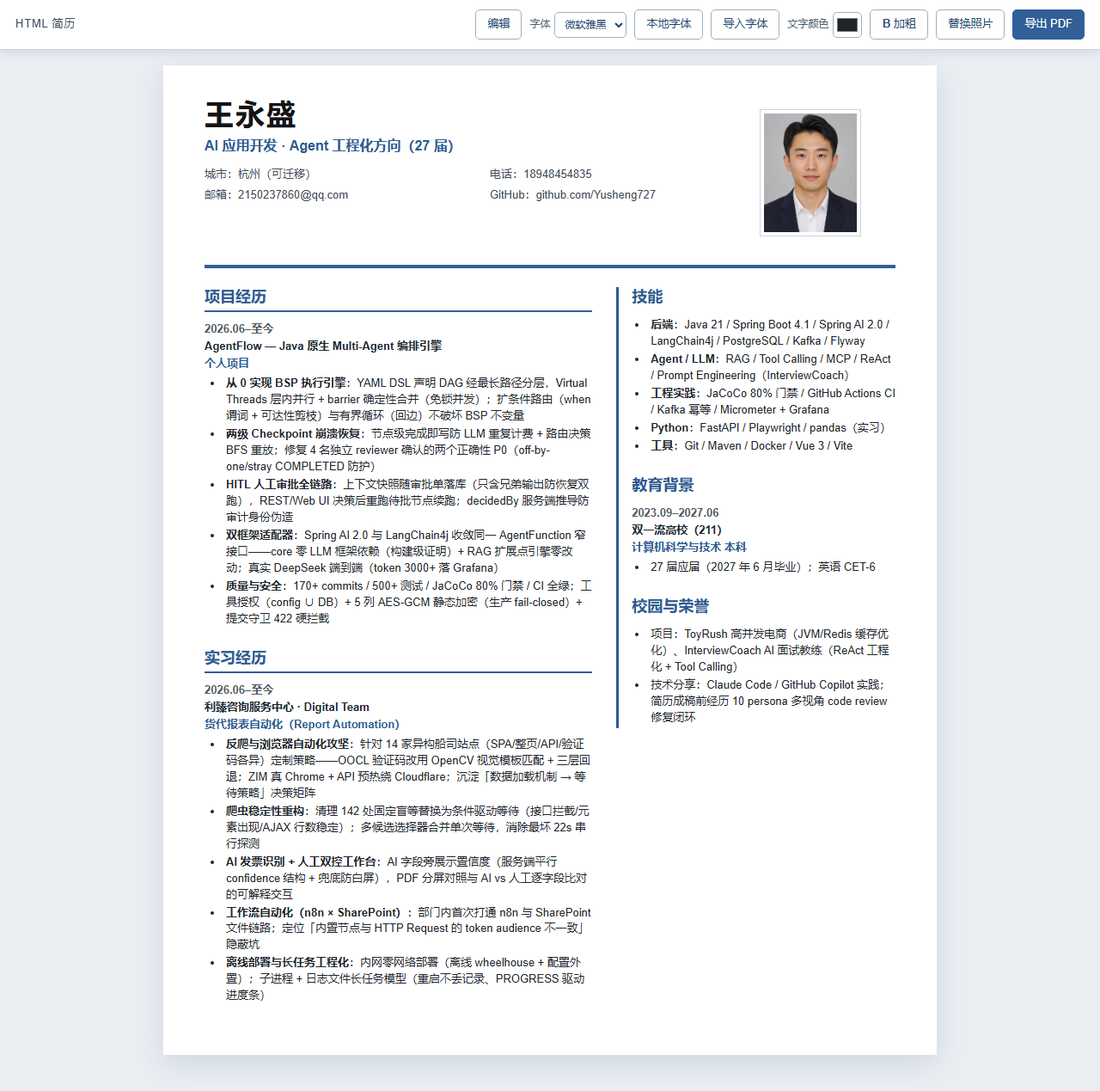
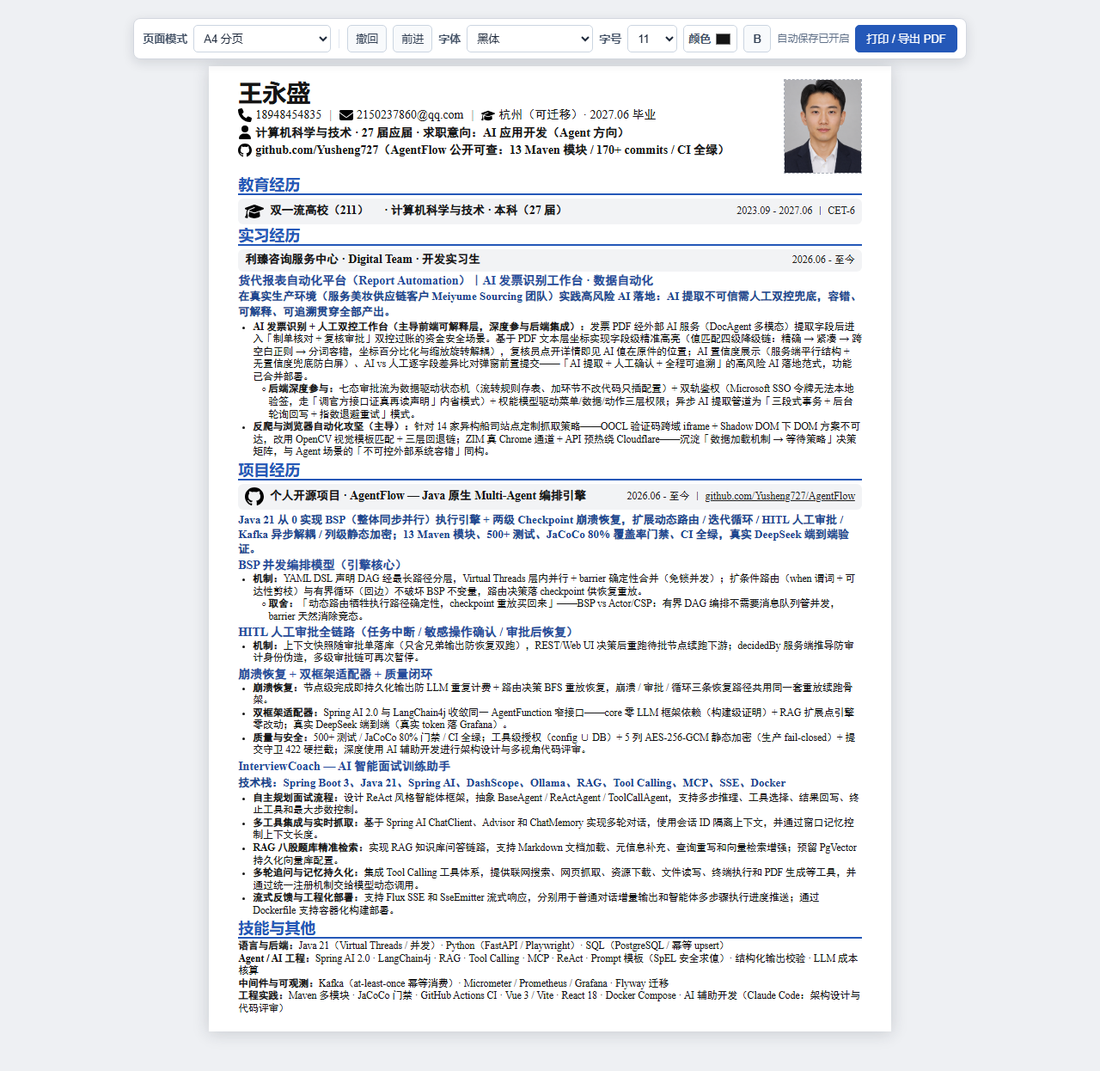
docs:两版简历规范到一页之内

Changed region(s): [[0.0938, 0.0, 1.0, 0.9759], [0.0312, 0.0, 0.0625, 0.0305]]

diff --git a/docs/resumes/B-backend.html b/docs/resumes/B-backend.html
@@ -9,7 +9,7 @@
     :root { --blue: #2458b8; --text: #151515; --muted: #596273; --band: #f2f3f5; }
     * { box-sizing: border-box; }
     html, body { margin: 0; padding: 0; background: #fff; }
-    body { color: var(--text); font-family: "Times New Roman", "SimHei", "黑体", "Microsoft YaHei", sans-serif; font-size: 10.5pt; line-height: 1.34; }
+    body { color: var(--text); font-family: "Times New Roman", "SimHei", "黑体", "Microsoft YaHei", sans-serif; font-size: 8.8pt; line-height: 1.24; }
     .toolbar { position: sticky; z-index: 10; top: 6px; display: flex; align-items: center; gap: 7px; width: max-content; max-width: calc(100vw - 32px); margin: 6px auto 8px; padding: 7px 10px; border: 1px solid #d3d7df; border-radius: 8px; background: #fff; box-shadow: 0 4px 14px rgba(15, 23, 42, .12); color: #334155; font: 13px/1 Arial, "Microsoft YaHei", sans-serif; }
     .toolbar label, .toolbar-title { color: #475569; font-weight: 700; white-space: nowrap; }
     .toolbar button, .toolbar select { height: 32px; border-radius: 5px; font: inherit; transition: border-color .15s ease, box-shadow .15s ease, background .15s ease, transform .15s ease; }
@@ -28,7 +28,7 @@
     .color-control input { width: 21px; height: 21px; padding: 0; border: 0; background: transparent; cursor: pointer; }
     @media screen and (max-width: 980px) { .toolbar { top: 6px; max-width: calc(100vw - 20px); flex-wrap: wrap; justify-content: center; } }
     @media print { .toolbar { display: none; } }
-    .sheet { width: 210mm; min-height: 0; padding: 7mm 10mm 8mm; border-top: 0; margin: 0 auto; }
+    .sheet { width: 210mm; min-height: 0; padding: 4mm 9mm 5mm; border-top: 0; margin: 0 auto; }
     .page-break { break-before: auto; }
     body[data-page-mode="continuous"] { width: 100%; }
     body[data-page-mode="continuous"] .sheet { width: 210mm; }
@@ -45,9 +45,9 @@
       body[data-page-mode="continuous"] .sheet { min-height: 0; margin: 0; box-shadow: none; }
     }
     [contenteditable="true"]:focus { outline: 2px solid #b7caf3; outline-offset: 2px; }
-    h1 { margin: 0 0 3px; font-family: "Microsoft YaHei", "Arial", sans-serif; font-size: 24pt; line-height: 1.08; font-weight: 700; }
-    .header-grid { display: grid; grid-template-columns: minmax(0, 1fr) 28mm; gap: 8mm; align-items: start; }
-    .profile-photo-slot { position: relative; width: 28mm; height: 36mm; display: flex; align-items: center; justify-content: center; overflow: hidden; border: 1px dashed #a8adb7; background: #fafafa; color: #8b919c; font: 9pt/1.2 Arial, sans-serif; text-align: center; cursor: pointer; }
+    h1 { margin: 0 0 2px; font-family: "Microsoft YaHei", "Arial", sans-serif; font-size: 21pt; line-height: 1.08; font-weight: 700; }
+    .header-grid { display: grid; grid-template-columns: minmax(0, 1fr) 24mm; gap: 6mm; align-items: start; }
+    .profile-photo-slot { position: relative; width: 24mm; height: 29mm; display: flex; align-items: center; justify-content: center; overflow: hidden; border: 1px dashed #a8adb7; background: #fafafa; color: #8b919c; font: 9pt/1.2 Arial, sans-serif; text-align: center; cursor: pointer; }
     .profile-photo-slot:hover, .profile-photo-slot:focus-visible { border-color: #2458b8; outline: none; }
     .profile-photo-slot::after { content: "点击上传"; position: absolute; inset: auto 0 0; padding: 4px 2px; background: rgba(36, 88, 184, .88); color: #fff; font: 8pt/1.2 Arial, "Microsoft YaHei", sans-serif; opacity: 0; transition: opacity .15s ease; }
     .profile-photo-slot:hover::after, .profile-photo-slot:focus-visible::after { opacity: 1; }
@@ -55,26 +55,26 @@
     .photo-placeholder { pointer-events: none; }
     .photo-input { display: none; }
     .profile-photo-slot img { display: block; width: 100%; height: 100%; object-fit: cover; }
-    .meta-row { display: flex; align-items: center; gap: 4px; margin: 2px 0; font-size: 11.5pt; line-height: 1.42; white-space: nowrap; }
+    .meta-row { display: flex; align-items: center; gap: 4px; margin: 1px 0; font-size: 10.5pt; line-height: 1.38; white-space: nowrap; }
     .meta-icon { width: 16px; height: 16px; object-fit: contain; flex: 0 0 auto; }
     .meta-row strong { font-weight: 700; }
     .separator { color: #2d2d2d; padding: 0 5px; }
-    .section { margin-top: 8px; }
-    .section-title { margin: 0 0 4px; padding-bottom: 2px; border-bottom: 2px solid var(--blue); color: var(--blue); font-family: "Microsoft YaHei", "Arial", sans-serif; font-size: 18.5pt; line-height: 1.03; font-weight: 700; }
-    .lead { margin: 3px 0 4px; color: #1d448f; font-size: 10.8pt; line-height: 1.35; font-weight: 700; }
+    .section { margin-top: 3px; }
+    .section-title { margin: 0 0 2px; padding-bottom: 1px; border-bottom: 2px solid var(--blue); color: var(--blue); font-family: "Microsoft YaHei", "Arial", sans-serif; font-size: 13.5pt; line-height: 1.05; font-weight: 700; }
+    .lead { margin: 2px 0 3px; color: #1d448f; font-size: 9.8pt; line-height: 1.32; font-weight: 700; }
     .evidence-link { margin: 2px 0 5px; color: #2458b8; font-size: 11.5pt; font-weight: 700; }
     .evidence-link a { color: inherit; }
     .evidence-row { display: flex; align-items: center; justify-content: space-between; gap: 12px; }
     .evidence-link { display: flex; align-items: center; flex-wrap: wrap; gap: 2px; }
-    .company { display: flex; align-items: center; gap: 7px; min-height: 31px; margin: 6px 0 4px; padding: 5px 8px; border-radius: 6px; background: var(--band); page-break-inside: avoid; }
-    .company-logo { width: 27px; height: 27px; object-fit: contain; flex: 0 0 auto; }
-    .company-name { flex: 1; min-width: 0; font-size: 11.2pt; font-weight: 700; }
-    .company-meta { color: #202020; font-size: 9.5pt; white-space: nowrap; }
+    .company { display: flex; align-items: center; gap: 7px; min-height: 26px; margin: 4px 0 3px; padding: 4px 8px; border-radius: 6px; background: var(--band); page-break-inside: avoid; }
+    .company-logo { width: 22px; height: 22px; object-fit: contain; flex: 0 0 auto; }
+    .company-name { flex: 1; min-width: 0; font-size: 10.2pt; font-weight: 700; }
+    .company-meta { color: #202020; font-size: 9pt; white-space: nowrap; }
     .education-name .education-major { margin-left: 18px; }
-    .project { margin: 3px 0 4px; page-break-inside: avoid; }
-    .project-title { margin: 3px 0 2px; color: #244b9b; font-size: 11.5pt; line-height: 1.12; font-weight: 700; }
-    ul { margin: 1px 0 3px 17px; padding: 0; }
-    li { margin: 1px 0; }
+    .project { margin: 2px 0 3px; page-break-inside: avoid; }
+    .project-title { margin: 2px 0 1px; color: #244b9b; font-size: 10.5pt; line-height: 1.12; font-weight: 700; }
+    ul { margin: 1px 0 2px 17px; padding: 0; }
+    li { margin: 0; }
     li::marker { font-size: .8em; }
     .nested { margin-left: 18px; }
     .nested::marker { content: "○ "; }
@@ -150,14 +150,15 @@
         <div class="company-meta">2026.06 - 至今</div>
       </div>
       <article class="project">
-        <div class="project-title">货代报表自动化平台（Report Automation）｜FastAPI + Playwright + 数据流水线</div>
-        <div class="lead">在既有系统（十几万行 Python 代码）上主导四个模块的改造——爬虫稳定性 / 反爬攻坚 / 长任务异步模型 / 离线部署，全部为「没有这部分会不一样」的可辩护差异；另深度参与 AI 发票工作台后端。</div>
+        <div class="project-title">货代报表自动化平台（Report Automation）｜FastAPI + Playwright + 数据流水线 + 监控看板</div>
+        <div class="lead">在既有系统（十几万行 Python 代码）上主导四个模块的改造——爬虫稳定性 / 反爬攻坚 / 长任务异步模型 / 部署工程化，全部为「没有这部分会不一样」的可辩护差异；另深度参与 AI 发票工作台后端。</div>
         <ul>
           <li><strong>数据管道与长任务异步模型（主导）：</strong>子进程 + 日志文件承载 5-30 分钟 Excel 流水线——进程隔离崩溃不影响主服务、文件系统做状态存储（服务重启任务记录不丢）、stdout 结构化标记驱动前端进度条、产物按 result_id 归档 + 7 天自动清理；两层流水线（编排层 / 纯数据层 / 展示层）+ 分桶缓存（batch_key 隔离）+ 重试只存非空防坏数据污染好缓存。</li>
+          <li><strong>监控看板与数据质量闭环（主导）：</strong>拆分监控表并建立派生列模式（可推导状态不落库）——抓取成功率 / 数据延迟 / 异常分布实时可视化，人工反馈落库驱动抓取规则迭代，形成「程序 vs 手工全列对比 → 反馈落库 → 看板观测」的数据质量闭环。</li>
           <li><strong>爬虫稳定性重构（主导）：</strong>系统性清理 11 家船司脚本 142 处固定盲等，按站点数据加载机制（SPA / 整页 / API / 验证码）替换为条件驱动等待（接口响应拦截 / 元素出现 / AJAX 行数稳定判定）；多候选选择器合并单次等待，消除最坏 22 秒串行探测——抓取从「靠超时兜底」变为可判定成功失败。</li>
           <li><strong>反爬与浏览器自动化攻坚（主导）：</strong>OOCL 的 Cloudflare Turnstile 嵌套跨域 iframe + Shadow DOM、DOM 方案不可达，改用 OpenCV 视觉模板匹配定位复选框并设计三层回退链；ZIM 真 Chrome 通道 + API 预热 + 页面上下文 XHR 绕 Cloudflare 与 CORS；WHL 导出真人登录 Cookie 复用信誉跳过验证码——沉淀「数据加载机制 → 等待策略」决策矩阵。</li>
-          <li><strong>AI 发票工作台（深度参与后端 + 主导前端可解释层）：</strong>七态审批流为数据驱动状态机（流转规则存表，加环节不改代码只插配置；幂等键先查后插 + DB 唯一约束两层防重；append-only 留痕支撑全程审计回放）+ 双轨鉴权（Microsoft SSO 令牌无法本地验签，走「调官方接口证真再读声明」内省模式；权能模型下身份随动作切换）；前端主导置信度展示 + PDF 字段级精准高亮可解释层，功能已合并部署。</li>
           <li><strong>部署工程化（主导）：</strong>内网 Windows 零网络环境部署——离线 wheelhouse + 配置外置（12-Factor，一份包 N 份配置消除测试/生产两套包）；定位并修复部署双重前缀登录 404（构建产物 diff 锁定单行根因）。</li>
+          <li class="nested"><strong>AI 发票工作台（深度参与后端）：</strong>七态审批流为数据驱动状态机（流转规则存表，加环节不改代码只插配置）+ 双轨鉴权（Microsoft SSO 内省模式）+ 幂等键两层防重 + append-only 留痕审计；前端主导 PDF 字段级精准高亮可解释层，功能已合并部署。</li>
         </ul>
       </article>
     </section>
@@ -168,11 +169,11 @@
         <div class="company-name">个人项目 · ToyRush — 潮玩闪购与社区交流平台</div>
         <div class="company-meta">技术栈：SpringBoot + MySQL + Redis + Lua + Kafka + Caffeine + MyBatis-Plus</div>
       </div>
-      <div class="lead">为用户提供潮玩限量秒杀、优惠券抢购、商家信息查询及社区交流功能，同时帮助商家精准推广潮玩优惠信息，打造潮玩爱好者的专属社区。</div>
+      <div class="lead">为用户提供潮玩限量秒杀、优惠券抢购、商家信息查询及社区交流功能，打造潮玩爱好者的专属社区。</div>
       <ul>
         <li><strong>秒杀防超卖与一人一单：</strong>使用 Redis 存储库存和订单信息，通过 Lua 脚本判断用户下单资格，保证库存不超卖且同一用户仅能下一单。</li>
         <li><strong>秒杀流程异步优化：</strong>用户下单后使用 Kafka 消息队列异步处理库存扣减和订单生成，提高秒杀场景的并发性能。</li>
-        <li><strong>未支付订单自动关闭与并发控制：</strong>使用 Spring Task 定时任务扫描超时未支付订单，自动关闭并回滚库存。为防止支付回调与定时关单发生数据冲突，在订单表状态更新时引入乐观锁（版本号机制），确保支付和关单仅一个成功，避免资金或库存异常。</li>
+        <li><strong>未支付订单自动关闭与并发控制：</strong>使用 Spring Task 定时任务扫描超时未支付订单，自动关闭并回滚库存；为防止支付回调与定时关单数据冲突，引入乐观锁（版本号机制）确保两者仅一个成功。</li>
         <li><strong>多级缓存与数据一致性：</strong>采用 Caffeine 本地缓存 + Redis 二级缓存架构提升热点数据访问速度；结合逻辑过期方案防缓存击穿、缓存空值防穿透；更新数据库后删除缓存，配合消息队列补偿重试及 TTL 兜底，保证缓存与数据库最终一致性。</li>
       </ul>
       <div class="company">
@@ -180,7 +181,7 @@
         <div class="company-name">个人开源项目 · AgentFlow — Multi-Agent 编排引擎（工程深度背书）</div>
         <div class="company-meta">2026.06 - 至今 ｜ <a href="https://github.com/Yusheng727/AgentFlow" style="color:inherit;">github.com/Yusheng727/AgentFlow</a></div>
       </div>
-      <div class="lead">Java 21 从 0 实现 BSP 执行引擎：并发模型 / 分布式解耦 / 安全横切 / 质量闭环四条工程主线；13 Maven 模块、500+ 测试、JaCoCo 80% 门禁、CI 全绿，真 PostgreSQL / 真 Kafka / 真实 DeepSeek 三环境端到端验证。</div>
+      <div class="lead">Java 21 从 0 实现 BSP 执行引擎：并发模型 / 分布式解耦 / 安全横切 / 质量闭环四条工程主线；13 Maven 模块、500+ 测试、JaCoCo 80% 门禁、CI 全绿，真 PostgreSQL / 真 Kafka / 真实 DeepSeek 三环境验证。</div>
       <article class="project">
         <div class="project-title">并发模型设计（BSP 执行引擎）</div>
         <ul>
@@ -191,16 +192,15 @@
       <article class="project">
         <div class="project-title">分布式解耦与幂等（Kafka）</div>
         <ul>
-          <li><strong>机制：</strong>提交 / 执行经 Kafka 解耦；消费端单条条件 UPDATE 原子认领执行权，at-least-once 投递下防重复消费双跑双计费；提交守卫事前拦截失控 DAG（节点数 / 预估成本 422）+ per-workflow 预算事后告警两道防线。</li>
-          <li class="nested"><strong>真 bug 故事：</strong>显式 retry 最初被幂等跳过逻辑吞掉静默失效——本地单测全绿、真 Kafka 端到端才暴露，修复后沉淀「测试绿 ≠ 生产生效」案例。</li>
+          <li><strong>机制：</strong>提交 / 执行经 Kafka 解耦；消费端单条条件 UPDATE 原子认领执行权，at-least-once 投递下防重复消费双跑双计费；提交守卫事前拦截失控 DAG（节点数 / 预估成本 422）+ per-workflow 预算逐轮记账与阈值告警两道防线。</li>
         </ul>
       </article>
       <article class="project">
         <div class="project-title">安全横切 + 崩溃恢复 + 质量闭环</div>
         <ul>
           <li><strong>安全横切：</strong>工具级授权（config ∪ DB、admin-only、防自授）+ 5 列 AES-256-GCM 静态加密（生产 fail-closed）+ API Key 只存 SHA-256 哈希防越权。</li>
-          <li><strong>崩溃恢复：</strong>节点级完成即写防 LLM 重复计费 + 路由决策 BFS 重放；修复 4 名独立 reviewer 确认的两个正确性 P0（off-by-one / stray COMPLETED 防护）。</li>
-          <li><strong>质量：</strong>500+ 测试 / JaCoCo 80% 门禁 / CI 全绿；踩坑主打：预算记账原只记成功末次、低估 ≤3x——评审抓到改逐轮记账；AI 辅助开发（AI 写代码、本人负责架构决策与质量把关）。</li>
+          <li><strong>崩溃恢复：</strong>节点级完成即持久化输出防 LLM 重复计费 + 路由决策 BFS 重放恢复，崩溃 / 审批 / 循环三条恢复路径共用同一套重放续跑骨架。</li>
+          <li><strong>质量：</strong>500+ 测试 / JaCoCo 80% 门禁 / CI 全绿；Micrometer 指标 + Grafana 6 面板可观测；深度使用 AI 辅助开发进行架构设计与多视角代码评审。</li>
         </ul>
       </article>
     </section>
@@ -210,9 +210,8 @@
       <div>
         <strong>JVM / 并发：</strong>JUC / GC / JVM 排查 · Java 21 Virtual Threads · BSP 并行模型（barrier / 只读快照 / Reducer）<br>
         <strong>框架：</strong>Spring Boot 4.1 · MyBatis-Plus · Spring AI 2.0 · FastAPI（实习）<br>
-        <strong>存储与中间件：</strong>MySQL · Redis（缓存一致性 / Lua 原子）· Kafka（at-least-once 幂等消费）· PostgreSQL · Flyway<br>
-        <strong>可观测：</strong>Micrometer + Prometheus + Grafana（6 面板真实部署验证）<br>
-        <strong>工程实践：</strong>Maven 多模块 · JaCoCo 门禁 · GitHub Actions CI · 离线部署 / 12-Factor 配置管理 · AI 辅助开发（Claude Code：架构决策与质量把关）
+        <strong>存储与中间件：</strong>MySQL · Redis（缓存一致性 / Lua 原子）· Kafka（at-least-once 幂等）· PostgreSQL · Flyway · Micrometer / Prometheus / Grafana<br>
+        <strong>工程实践：</strong>Maven 多模块 · JaCoCo 门禁 · GitHub Actions CI · 离线部署 / 12-Factor 配置管理 · AI 辅助开发（Claude Code：架构设计与代码评审）
       </div>
     </section>
   </main>

diff --git a/docs/resumes/A-agent.html b/docs/resumes/A-agent.html
@@ -9,7 +9,7 @@
     :root { --blue: #2458b8; --text: #151515; --muted: #596273; --band: #f2f3f5; }
     * { box-sizing: border-box; }
     html, body { margin: 0; padding: 0; background: #fff; }
-    body { color: var(--text); font-family: "Times New Roman", "SimHei", "黑体", "Microsoft YaHei", sans-serif; font-size: 10.5pt; line-height: 1.34; }
+    body { color: var(--text); font-family: "Times New Roman", "SimHei", "黑体", "Microsoft YaHei", sans-serif; font-size: 8.8pt; line-height: 1.24; }
     .toolbar { position: sticky; z-index: 10; top: 6px; display: flex; align-items: center; gap: 7px; width: max-content; max-width: calc(100vw - 32px); margin: 6px auto 8px; padding: 7px 10px; border: 1px solid #d3d7df; border-radius: 8px; background: #fff; box-shadow: 0 4px 14px rgba(15, 23, 42, .12); color: #334155; font: 13px/1 Arial, "Microsoft YaHei", sans-serif; }
     .toolbar label, .toolbar-title { color: #475569; font-weight: 700; white-space: nowrap; }
     .toolbar button, .toolbar select { height: 32px; border-radius: 5px; font: inherit; transition: border-color .15s ease, box-shadow .15s ease, background .15s ease, transform .15s ease; }
@@ -28,7 +28,7 @@
     .color-control input { width: 21px; height: 21px; padding: 0; border: 0; background: transparent; cursor: pointer; }
     @media screen and (max-width: 980px) { .toolbar { top: 6px; max-width: calc(100vw - 20px); flex-wrap: wrap; justify-content: center; } }
     @media print { .toolbar { display: none; } }
-    .sheet { width: 210mm; min-height: 0; padding: 7mm 10mm 8mm; border-top: 0; margin: 0 auto; }
+    .sheet { width: 210mm; min-height: 0; padding: 4mm 9mm 5mm; border-top: 0; margin: 0 auto; }
     .page-break { break-before: auto; }
     body[data-page-mode="continuous"] { width: 100%; }
     body[data-page-mode="continuous"] .sheet { width: 210mm; }
@@ -45,9 +45,9 @@
       body[data-page-mode="continuous"] .sheet { min-height: 0; margin: 0; box-shadow: none; }
     }
     [contenteditable="true"]:focus { outline: 2px solid #b7caf3; outline-offset: 2px; }
-    h1 { margin: 0 0 3px; font-family: "Microsoft YaHei", "Arial", sans-serif; font-size: 24pt; line-height: 1.08; font-weight: 700; }
-    .header-grid { display: grid; grid-template-columns: minmax(0, 1fr) 28mm; gap: 8mm; align-items: start; }
-    .profile-photo-slot { position: relative; width: 28mm; height: 36mm; display: flex; align-items: center; justify-content: center; overflow: hidden; border: 1px dashed #a8adb7; background: #fafafa; color: #8b919c; font: 9pt/1.2 Arial, sans-serif; text-align: center; cursor: pointer; }
+    h1 { margin: 0 0 2px; font-family: "Microsoft YaHei", "Arial", sans-serif; font-size: 21pt; line-height: 1.08; font-weight: 700; }
+    .header-grid { display: grid; grid-template-columns: minmax(0, 1fr) 24mm; gap: 6mm; align-items: start; }
+    .profile-photo-slot { position: relative; width: 24mm; height: 29mm; display: flex; align-items: center; justify-content: center; overflow: hidden; border: 1px dashed #a8adb7; background: #fafafa; color: #8b919c; font: 9pt/1.2 Arial, sans-serif; text-align: center; cursor: pointer; }
     .profile-photo-slot:hover, .profile-photo-slot:focus-visible { border-color: #2458b8; outline: none; }
     .profile-photo-slot::after { content: "点击上传"; position: absolute; inset: auto 0 0; padding: 4px 2px; background: rgba(36, 88, 184, .88); color: #fff; font: 8pt/1.2 Arial, "Microsoft YaHei", sans-serif; opacity: 0; transition: opacity .15s ease; }
     .profile-photo-slot:hover::after, .profile-photo-slot:focus-visible::after { opacity: 1; }
@@ -55,26 +55,26 @@
     .photo-placeholder { pointer-events: none; }
     .photo-input { display: none; }
     .profile-photo-slot img { display: block; width: 100%; height: 100%; object-fit: cover; }
-    .meta-row { display: flex; align-items: center; gap: 4px; margin: 2px 0; font-size: 11.5pt; line-height: 1.42; white-space: nowrap; }
+    .meta-row { display: flex; align-items: center; gap: 4px; margin: 1px 0; font-size: 10.5pt; line-height: 1.38; white-space: nowrap; }
     .meta-icon { width: 16px; height: 16px; object-fit: contain; flex: 0 0 auto; }
     .meta-row strong { font-weight: 700; }
     .separator { color: #2d2d2d; padding: 0 5px; }
-    .section { margin-top: 8px; }
-    .section-title { margin: 0 0 4px; padding-bottom: 2px; border-bottom: 2px solid var(--blue); color: var(--blue); font-family: "Microsoft YaHei", "Arial", sans-serif; font-size: 18.5pt; line-height: 1.03; font-weight: 700; }
-    .lead { margin: 3px 0 4px; color: #1d448f; font-size: 10.8pt; line-height: 1.35; font-weight: 700; }
+    .section { margin-top: 3px; }
+    .section-title { margin: 0 0 2px; padding-bottom: 1px; border-bottom: 2px solid var(--blue); color: var(--blue); font-family: "Microsoft YaHei", "Arial", sans-serif; font-size: 13.5pt; line-height: 1.05; font-weight: 700; }
+    .lead { margin: 2px 0 3px; color: #1d448f; font-size: 9.8pt; line-height: 1.32; font-weight: 700; }
     .evidence-link { margin: 2px 0 5px; color: #2458b8; font-size: 11.5pt; font-weight: 700; }
     .evidence-link a { color: inherit; }
     .evidence-row { display: flex; align-items: center; justify-content: space-between; gap: 12px; }
     .evidence-link { display: flex; align-items: center; flex-wrap: wrap; gap: 2px; }
-    .company { display: flex; align-items: center; gap: 7px; min-height: 31px; margin: 6px 0 4px; padding: 5px 8px; border-radius: 6px; background: var(--band); page-break-inside: avoid; }
-    .company-logo { width: 27px; height: 27px; object-fit: contain; flex: 0 0 auto; }
-    .company-name { flex: 1; min-width: 0; font-size: 11.2pt; font-weight: 700; }
-    .company-meta { color: #202020; font-size: 9.5pt; white-space: nowrap; }
+    .company { display: flex; align-items: center; gap: 7px; min-height: 26px; margin: 4px 0 3px; padding: 4px 8px; border-radius: 6px; background: var(--band); page-break-inside: avoid; }
+    .company-logo { width: 22px; height: 22px; object-fit: contain; flex: 0 0 auto; }
+    .company-name { flex: 1; min-width: 0; font-size: 10.2pt; font-weight: 700; }
+    .company-meta { color: #202020; font-size: 9pt; white-space: nowrap; }
     .education-name .education-major { margin-left: 18px; }
-    .project { margin: 3px 0 4px; page-break-inside: avoid; }
-    .project-title { margin: 3px 0 2px; color: #244b9b; font-size: 11.5pt; line-height: 1.12; font-weight: 700; }
-    ul { margin: 1px 0 3px 17px; padding: 0; }
-    li { margin: 1px 0; }
+    .project { margin: 2px 0 3px; page-break-inside: avoid; }
+    .project-title { margin: 2px 0 1px; color: #244b9b; font-size: 10.5pt; line-height: 1.12; font-weight: 700; }
+    ul { margin: 1px 0 2px 17px; padding: 0; }
+    li { margin: 0; }
     li::marker { font-size: .8em; }
     .nested { margin-left: 18px; }
     .nested::marker { content: "○ "; }
@@ -150,15 +150,12 @@
         <div class="company-meta">2026.06 - 至今</div>
       </div>
       <article class="project">
-        <div class="project-title">货代报表自动化平台（Report Automation）｜AI 发票工作台 · 数据自动化</div>
-        <div class="lead">在真实生产环境（服务美妆供应链客户 Meiyume Sourcing 团队）实践 AI 落地与数据自动化：AI 提取不可信需人工双控兜底、外部 AI 服务与船司站点均为不可控外部依赖——容错、可解释、可追溯贯穿全部产出。</div>
+        <div class="project-title">货代报表自动化平台（Report Automation）｜AI 发票识别工作台 · 数据自动化</div>
+        <div class="lead">在真实生产环境（服务美妆供应链客户 Meiyume Sourcing 团队）实践高风险 AI 落地：AI 提取不可信需人工双控兜底，容错、可解释、可追溯贯穿全部产出。</div>
         <ul>
           <li><strong>AI 发票识别 + 人工双控工作台（主导前端可解释层，深度参与后端集成）：</strong>发票 PDF 经外部 AI 服务（DocAgent 多模态）提取字段后进入「制单核对 + 复核审批」双控过账的资金安全场景。基于 PDF 文本层坐标实现字段级精准高亮（值匹配四级降级链：精确 → 紧凑 → 跨空白正则 → 分词容错，坐标百分比化与缩放旋转解耦），复核员点开详情即见 AI 值在原件的位置；AI 置信度展示（服务端平行结构 + 无置信度兜底防白屏）、AI vs 人工逐字段差异比对弹窗前置提交——「AI 提取 + 人工确认 + 全程可追溯」的高风险 AI 落地范式，功能已合并部署。</li>
-          <li class="nested"><strong>后端深度参与：</strong>七态审批流为数据驱动状态机（流转规则存表、加环节不改代码只插配置）+ 双轨鉴权（Microsoft SSO 令牌无法本地验签，走「调官方接口证真再读声明」内省模式）+ 权能模型驱动菜单/数据/动作三层权限。</li>
-          <li class="nested"><strong>异步 AI 提取管道（参与联调）：</strong>上传「三段式事务」（落库 → 调外部 AI → 回填任务号）+ 后台轮询回写 + 指数退避有限重试——理解并能讲清跨事务非原子的代价与轮询型集成的补偿口径。</li>
-          <li><strong>反爬与浏览器自动化攻坚（主导）：</strong>针对 14 家异构船司站点（SPA / 整页 / API / 验证码各异）定制策略——OOCL 验证码跨域 iframe + Shadow DOM 下 DOM 方案不可达，改用 OpenCV 视觉模板匹配 + 三层回退链；ZIM 真 Chrome 通道 + API 预热绕 Cloudflare——沉淀「数据加载机制 → 等待策略」决策矩阵。</li>
-          <li><strong>爬虫稳定性重构（主导）：</strong>清理 11 家船司脚本 142 处固定盲等，按站点加载机制替换为条件驱动等待（接口拦截 / 元素出现 / AJAX 行数稳定）；多候选选择器合并单次等待，消除最坏 22s 串行探测——抓取从「靠超时兜底」变为可判定成功失败。</li>
-          <li><strong>工作流自动化与长任务工程化（主导）：</strong>部门内首次打通 n8n × SharePoint 文件链路（OAuth2 委托权限 + REST/内置节点混合路线）；子进程 + 日志文件承载 5-30 分钟流水线（重启不丢记录、结构化标记驱动进度条）；内网零网络离线部署（wheelhouse + 配置外置）。</li>
+          <li class="nested"><strong>后端深度参与：</strong>七态审批流为数据驱动状态机（流转规则存表、加环节不改代码只插配置）+ 双轨鉴权（Microsoft SSO 令牌无法本地验签，走「调官方接口证真再读声明」内省模式）+ 权能模型驱动菜单/数据/动作三层权限；异步 AI 提取管道为「三段式事务 + 后台轮询回写 + 指数退避重试」模式。</li>
+          <li><strong>反爬与浏览器自动化攻坚（主导）：</strong>针对 14 家异构船司站点定制抓取策略——OOCL 验证码跨域 iframe + Shadow DOM 下 DOM 方案不可达，改用 OpenCV 视觉模板匹配 + 三层回退链；ZIM 真 Chrome 通道 + API 预热绕 Cloudflare——沉淀「数据加载机制 → 等待策略」决策矩阵，与 Agent 场景的「不可控外部系统容错」同构。</li>
         </ul>
       </article>
     </section>
@@ -170,7 +167,7 @@
         <div class="company-name">个人开源项目 · AgentFlow — Java 原生 Multi-Agent 编排引擎</div>
         <div class="company-meta">2026.06 - 至今 ｜ <a href="https://github.com/Yusheng727/AgentFlow" style="color:inherit;">github.com/Yusheng727/AgentFlow</a></div>
       </div>
-      <div class="lead">Java 21 从 0 实现 BSP（整体同步并行）执行引擎 + 两级 Checkpoint 崩溃恢复，扩展动态路由 / 迭代循环 / HITL 人工审批 / Kafka 异步解耦 / 列级静态加密；13 Maven 模块、500+ 测试、JaCoCo 80% 覆盖率门禁、CI 全绿，真实 DeepSeek 端到端验证（真实 token 计费落 Prometheus/Grafana）。</div>
+      <div class="lead">Java 21 从 0 实现 BSP（整体同步并行）执行引擎 + 两级 Checkpoint 崩溃恢复，扩展动态路由 / 迭代循环 / HITL 人工审批 / Kafka 异步解耦 / 列级静态加密；13 Maven 模块、500+ 测试、JaCoCo 80% 覆盖率门禁、CI 全绿，真实 DeepSeek 端到端验证。</div>
       <article class="project">
         <div class="project-title">BSP 并发编排模型（引擎核心）</div>
         <ul>
@@ -179,18 +176,17 @@
         </ul>
       </article>
       <article class="project">
-        <div class="project-title">HITL 人工审批全链路（Agent 岗 JD 逐字命中：任务中断 / 敏感操作确认）</div>
+        <div class="project-title">HITL 人工审批全链路（任务中断 / 敏感操作确认 / 审批后恢复）</div>
         <ul>
-          <li><strong>机制：</strong>上下文快照随审批单落库（只含兄弟输出防恢复双跑），REST/Web UI 决策后重跑待批节点续跑；decidedBy 服务端推导防审计身份伪造。</li>
-          <li class="nested"><strong>面试呼应：</strong>与实习 AI 发票工作台「AI 提取 + 人工双控」形成双场景呼应——引擎层的中断-恢复（AgentFlow）× 业务层的复核-过账（实习），同一命题两种落地。</li>
+          <li><strong>机制：</strong>上下文快照随审批单落库（只含兄弟输出防恢复双跑），REST/Web UI 决策后重跑待批节点续跑下游；decidedBy 服务端推导防审计身份伪造，多级审批链可再次暂停。</li>
         </ul>
       </article>
       <article class="project">
         <div class="project-title">崩溃恢复 + 双框架适配器 + 质量闭环</div>
         <ul>
-          <li><strong>崩溃恢复：</strong>节点级完成即写防 LLM 重复计费 + 路由决策 BFS 重放；修复 4 名独立 reviewer 确认的两个正确性 P0（off-by-one / stray COMPLETED 防护）。</li>
+          <li><strong>崩溃恢复：</strong>节点级完成即持久化输出防 LLM 重复计费 + 路由决策 BFS 重放恢复，崩溃 / 审批 / 循环三条恢复路径共用同一套重放续跑骨架。</li>
           <li><strong>双框架适配器：</strong>Spring AI 2.0 与 LangChain4j 收敛同一 AgentFunction 窄接口——core 零 LLM 框架依赖（构建级证明）+ RAG 扩展点引擎零改动；真实 DeepSeek 端到端（真实 token 落 Grafana）。</li>
-          <li><strong>质量与安全：</strong>500+ 测试 / JaCoCo 80% 门禁 / CI 全绿；工具授权（config ∪ DB）+ 5 列 AES-GCM 静态加密（生产 fail-closed）+ 提交守卫 422 硬拦截；AI 辅助开发（AI 写代码、本人负责架构决策与质量把关，每轮 10 persona 评审修复记录可查）。</li>
+          <li><strong>质量与安全：</strong>500+ 测试 / JaCoCo 80% 门禁 / CI 全绿；工具级授权（config ∪ DB）+ 5 列 AES-256-GCM 静态加密（生产 fail-closed）+ 提交守卫 422 硬拦截；深度使用 AI 辅助开发进行架构设计与多视角代码评审。</li>
         </ul>
       </article>
       <article class="project">
@@ -209,10 +205,10 @@
     <section class="section">
       <h2 class="section-title">技能与其他</h2>
       <div>
-        <strong>语言与后端：</strong>Java 21（Virtual Threads / 并发 / BSP）· Python（FastAPI / pandas / Playwright）· SQL（PostgreSQL / 幂等 upsert）<br>
+        <strong>语言与后端：</strong>Java 21（Virtual Threads / 并发）· Python（FastAPI / Playwright）· SQL（PostgreSQL / 幂等 upsert）<br>
         <strong>Agent / AI 工程：</strong>Spring AI 2.0 · LangChain4j · RAG · Tool Calling · MCP · ReAct · Prompt 模板（SpEL 安全求值）· 结构化输出校验 · LLM 成本核算<br>
         <strong>中间件与可观测：</strong>Kafka（at-least-once 幂等消费）· Micrometer / Prometheus / Grafana · Flyway 迁移<br>
-        <strong>工程实践：</strong>Maven 多模块 · JaCoCo 门禁 · GitHub Actions CI · 多视角代码评审 · Vue 3 / Vite · React 18 · Docker Compose · AI 辅助开发（Claude Code：架构决策与质量把关）
+        <strong>工程实践：</strong>Maven 多模块 · JaCoCo 门禁 · GitHub Actions CI · Vue 3 / Vite · React 18 · Docker Compose · AI 辅助开发（Claude Code：架构设计与代码评审）
       </div>
     </section>
   </main>

diff --git a/docs/resumes/pagecheck.py b/docs/resumes/pagecheck.py
@@ -1,0 +1,18 @@
+import asyncio, os
+from playwright.async_api import async_playwright
+
+async def run():
+    async with async_playwright() as pw:
+        br = await pw.chromium.launch()
+        page = await br.new_page()
+        for f in ['A-agent.html','B-backend.html']:
+            abspath = os.path.abspath(f).replace(os.sep, '/')
+            await page.goto('file:///' + abspath)
+            await page.wait_for_timeout(1000)
+            await page.emulate_media(media='print')
+            h = await page.evaluate('document.querySelector("main.sheet").scrollHeight')
+            # print 模式下 sheet padding 5mm+6mm 已含；A4 高 297mm = 1122.5px @96dpi
+            print(f, 'print-mode sheet-height:', h, 'px =', round(h/1122.5, 3), 'A4 pages')
+        await br.close()
+
+asyncio.run(run())
